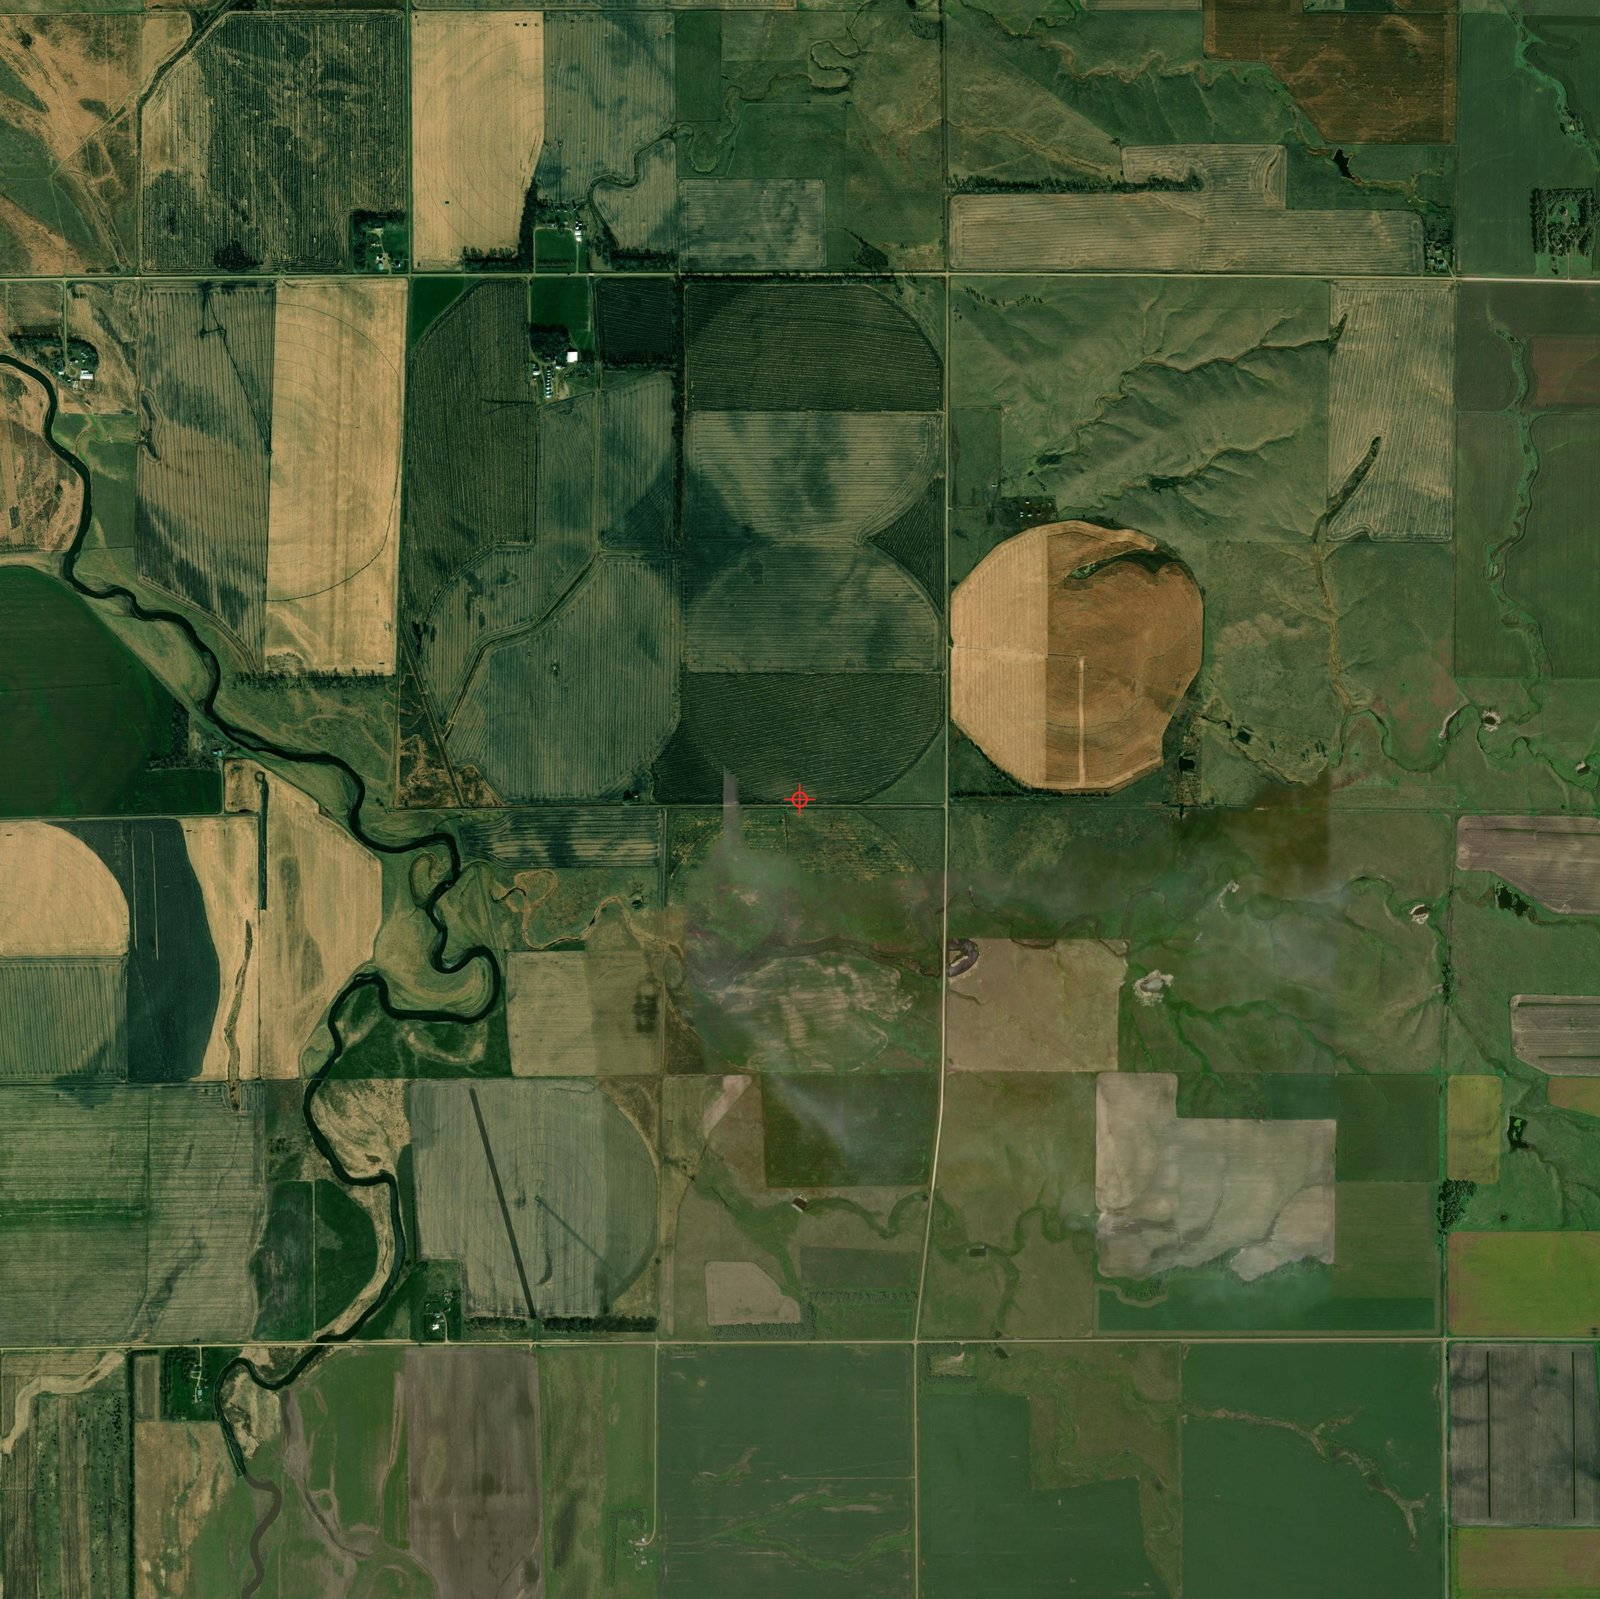
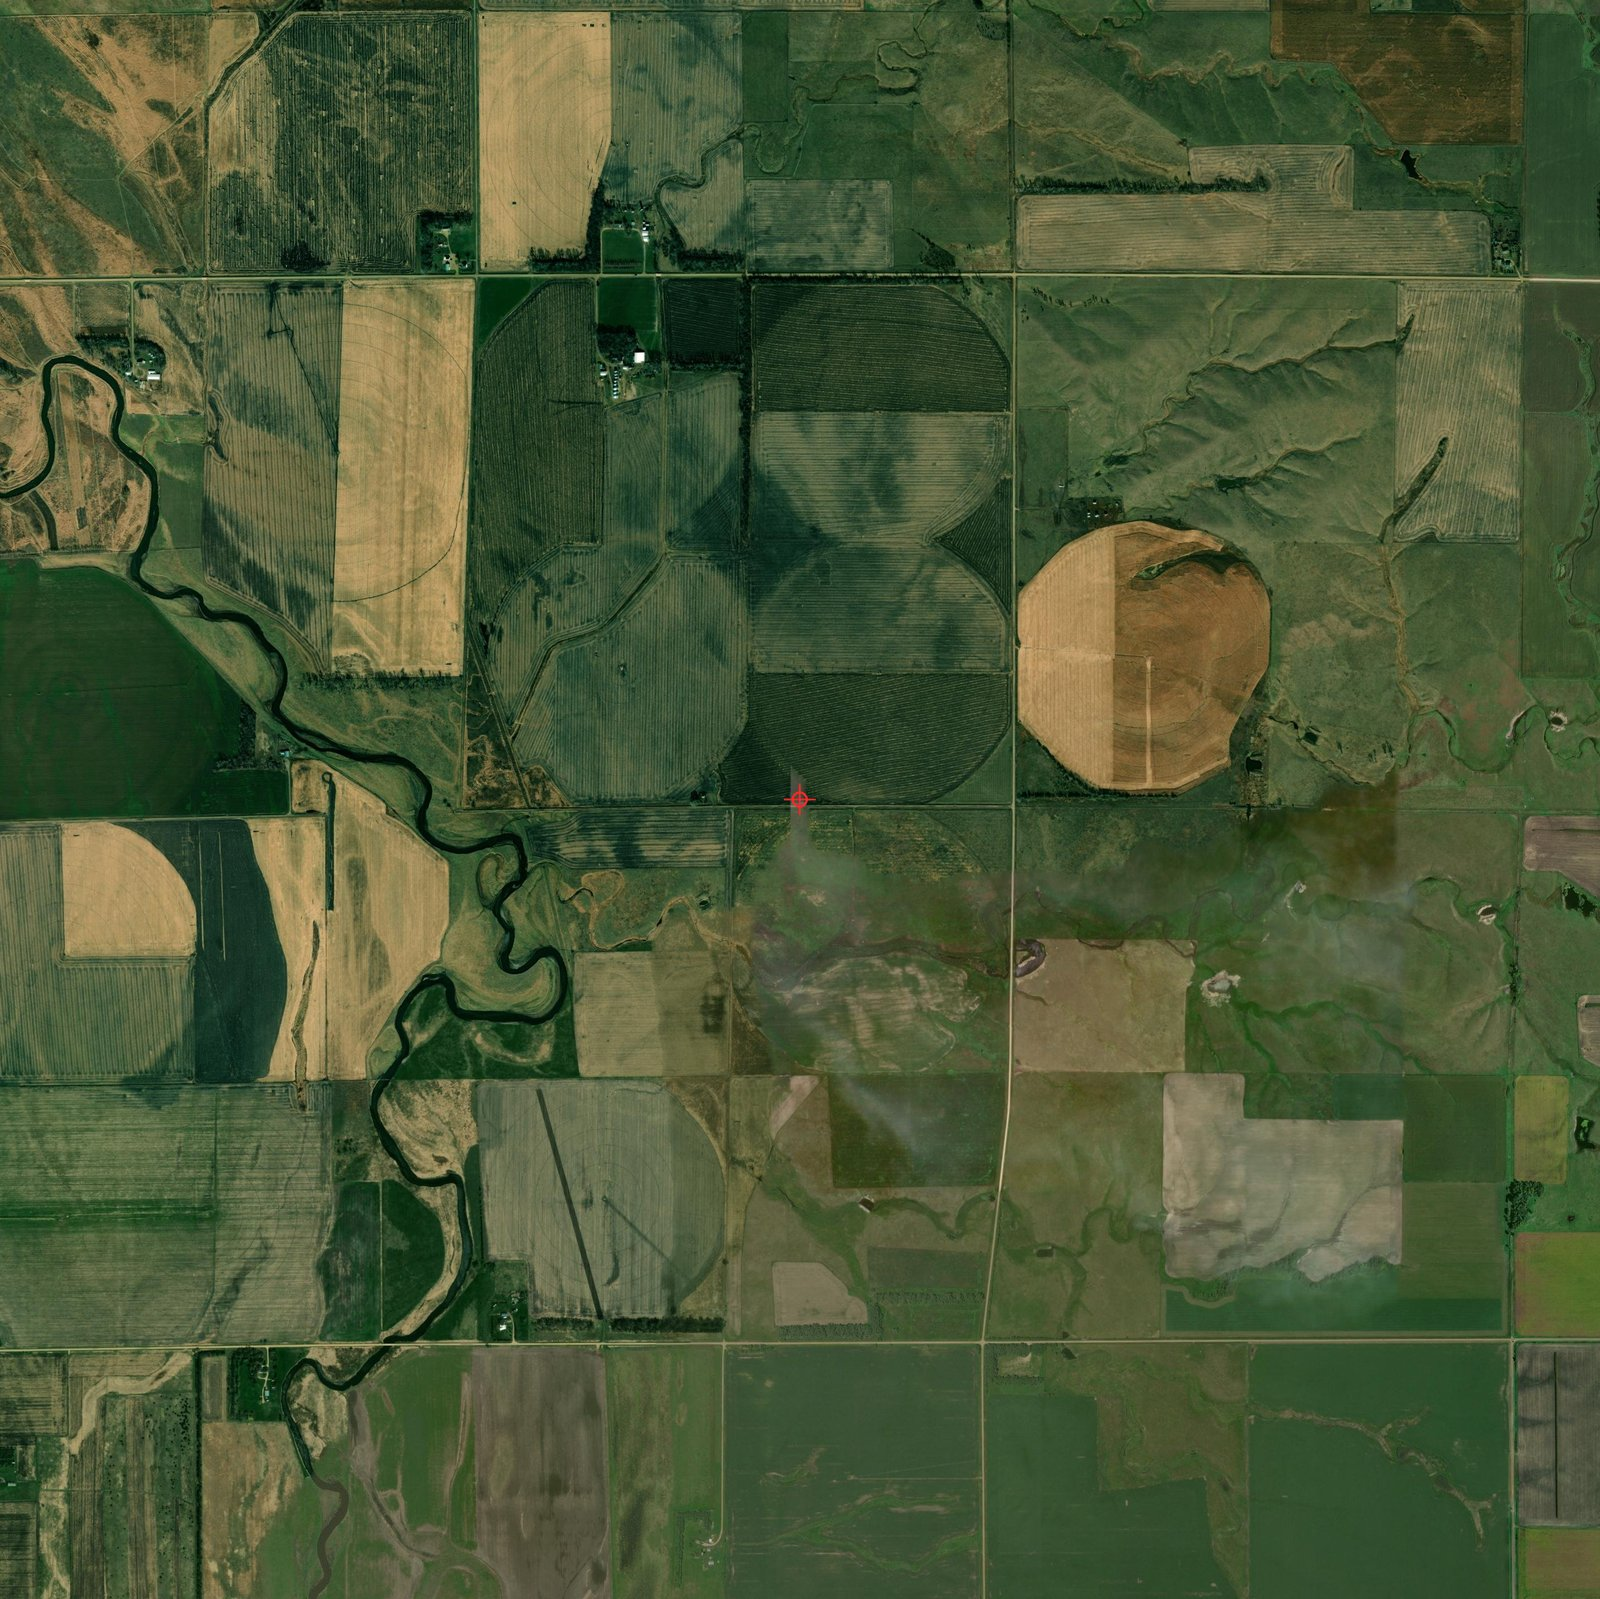
Correct SD Rocket Jockies coordinates to the exact launch point
~200m west of the original figure, latitude essentially unchanged.
Re-fetched the site's satellite maps, re-pulled live wind forecasts at
the corrected coordinate, and regenerated zone/manifest/history data for
all 4 target dates.

diff --git a/pipeline/config.py b/pipeline/config.py
@@ -95,8 +95,11 @@ SITES = {
         # 8,000/9,000ft figures in earlier years; re-verify with the club before
         # relying on it for anything safety-critical, same caveat as every
         # other site here.
+        # Coordinates corrected 2026-07-17 (user's call) to the exact launch
+        # point -- ~200m west of the original figure, latitude essentially
+        # unchanged.
         "name": "SD Rocket Jockies", "club": "SD Rocket Jockies",
-        "lat": 44.51493, "lon": -96.85254, "waiver_ft": 14000,
+        "lat": 44.5149338, "lon": -96.8551149, "waiver_ft": 14000,
     },
 }
 